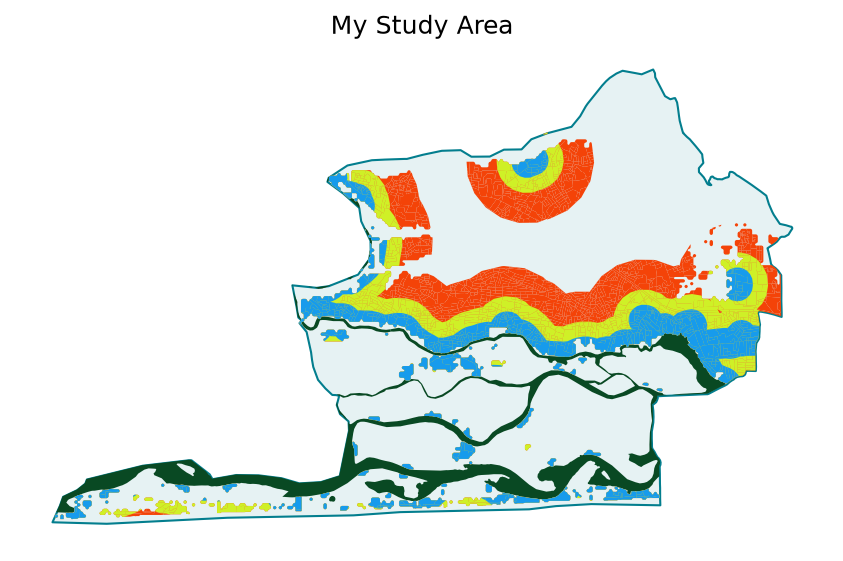
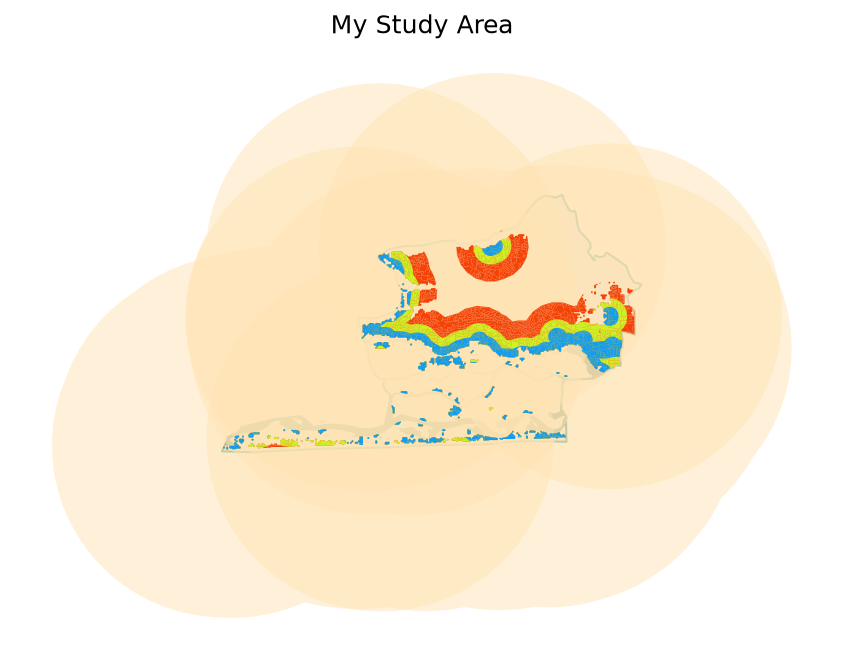
Tried Buffer

diff --git a/dev/month-03/week-10/my_points.py b/dev/month-03/week-10/my_points.py
@@ -38,9 +38,12 @@ settle1 = settle1.to_crs(wards.crs)
 settle2 = gpd.read_file("my_data/two_settle.gpkg")
 settle2 = settle2.to_crs(wards.crs)
 
+buf = natural.buffer(10000)
+
 fig, ax = plt.subplots(figsize=(7,8))
 wards.plot(ax=ax, color="#E6F2F3", edgecolor="#037E8E")
 natural.plot(ax=ax, color="#094923")
+buf.plot(ax=ax, color="#FFE4B5", alpha=0.5)
 settle2.plot(ax=ax, color="#F44308")
 settle1.plot(ax=ax, color="#CFF027")
 settle0.plot(ax=ax, color="#179BEC")
